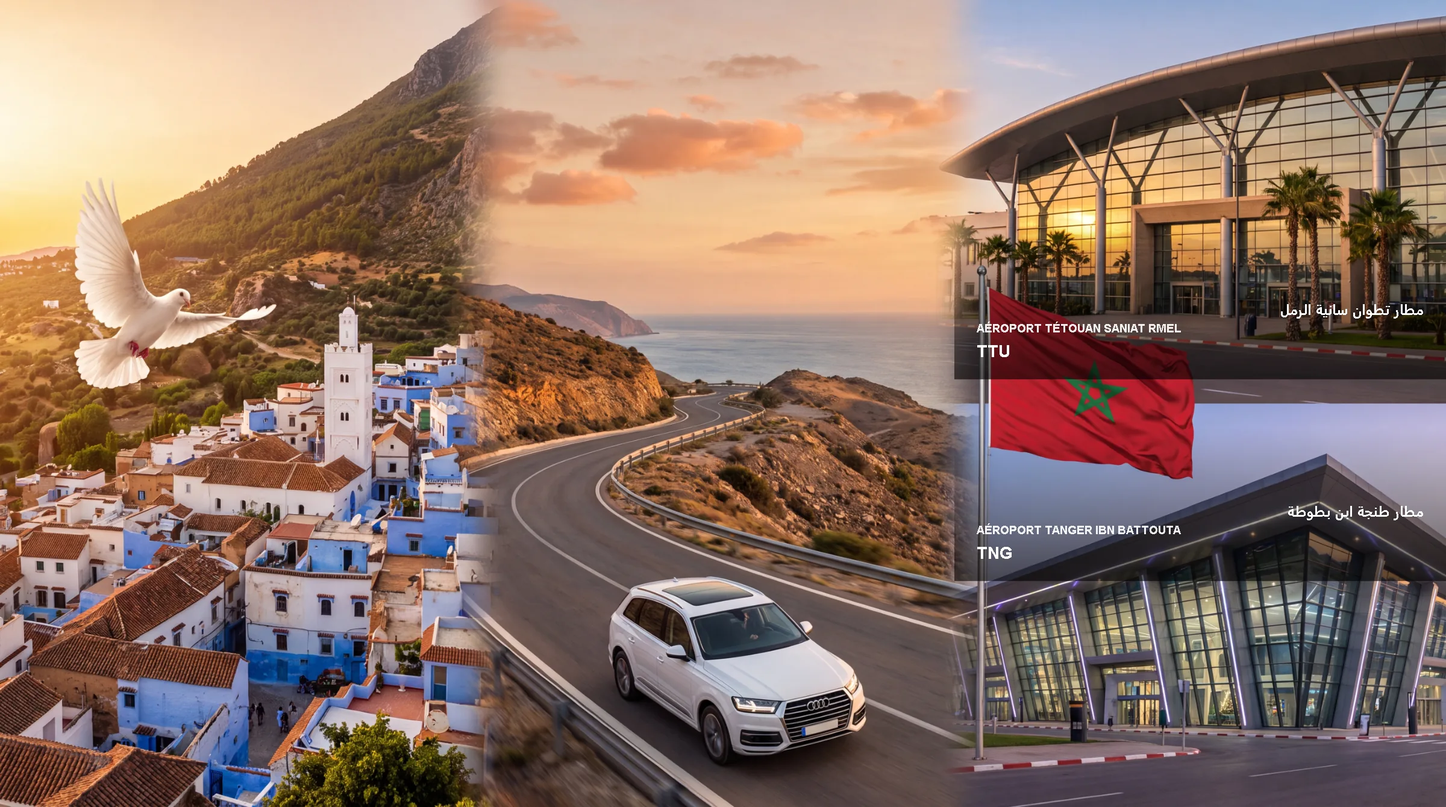
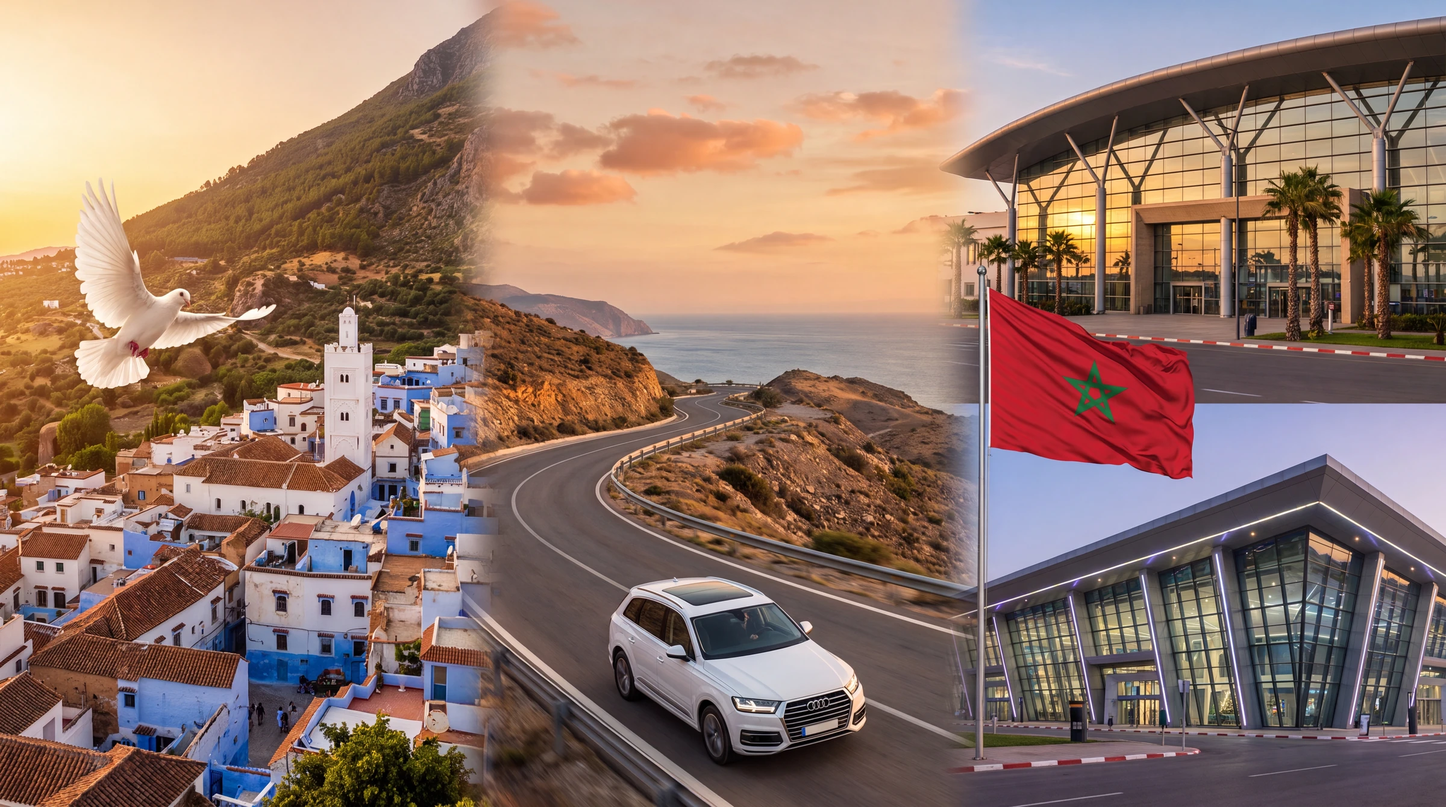
Remove hero overlay scrim and airport name labels from hero background
Show the hero background photo at full clarity (no gradient wash) and
swap in the pre-label version of the composite image.

Changed region(s): [[0.6562, 0.5507, 1.0, 0.7343], [0.6562, 0.306, 1.0, 0.4896]]

diff --git a/index.html b/index.html
@@ -338,13 +338,6 @@ header{
   100%{transform:scale(1.18) translate(-2.5%,-1.5%)}
 }
 @media (prefers-reduced-motion: reduce){ .hero-bg-img{animation:none} }
-.hero-overlay{
-  position:absolute;inset:0;z-index:1;
-  background:
-    radial-gradient(circle at 15% 15%, var(--blue-glow), transparent 45%),
-    radial-gradient(circle at 85% 85%, rgba(200,134,13,.12), transparent 40%),
-    linear-gradient(180deg, rgba(255,255,255,.25) 0%, rgba(255,255,255,.55) 70%, var(--navy-900) 100%);
-}
 .hero > .container{position:relative;z-index:2}
 
 .badge-row{display:flex;flex-wrap:wrap;justify-content:center;gap:10px;margin-bottom:18px}
@@ -883,7 +876,6 @@ html[dir="rtl"] .modal-close{inset-inline-end:auto;inset-inline-start:16px}
   <div class="hero-bg-wrap">
     <img class="hero-bg-img" src="images/hero-tetouan.webp" alt="Tétouan medina cityscape with the Rif mountains" loading="eager">
   </div>
-  <div class="hero-overlay"></div>
   <div class="container hero-booking-inner">
     <div class="badge-row">
       <span class="pill-badge" data-i18n="badge_know_us">GET TO KNOW US</span>
